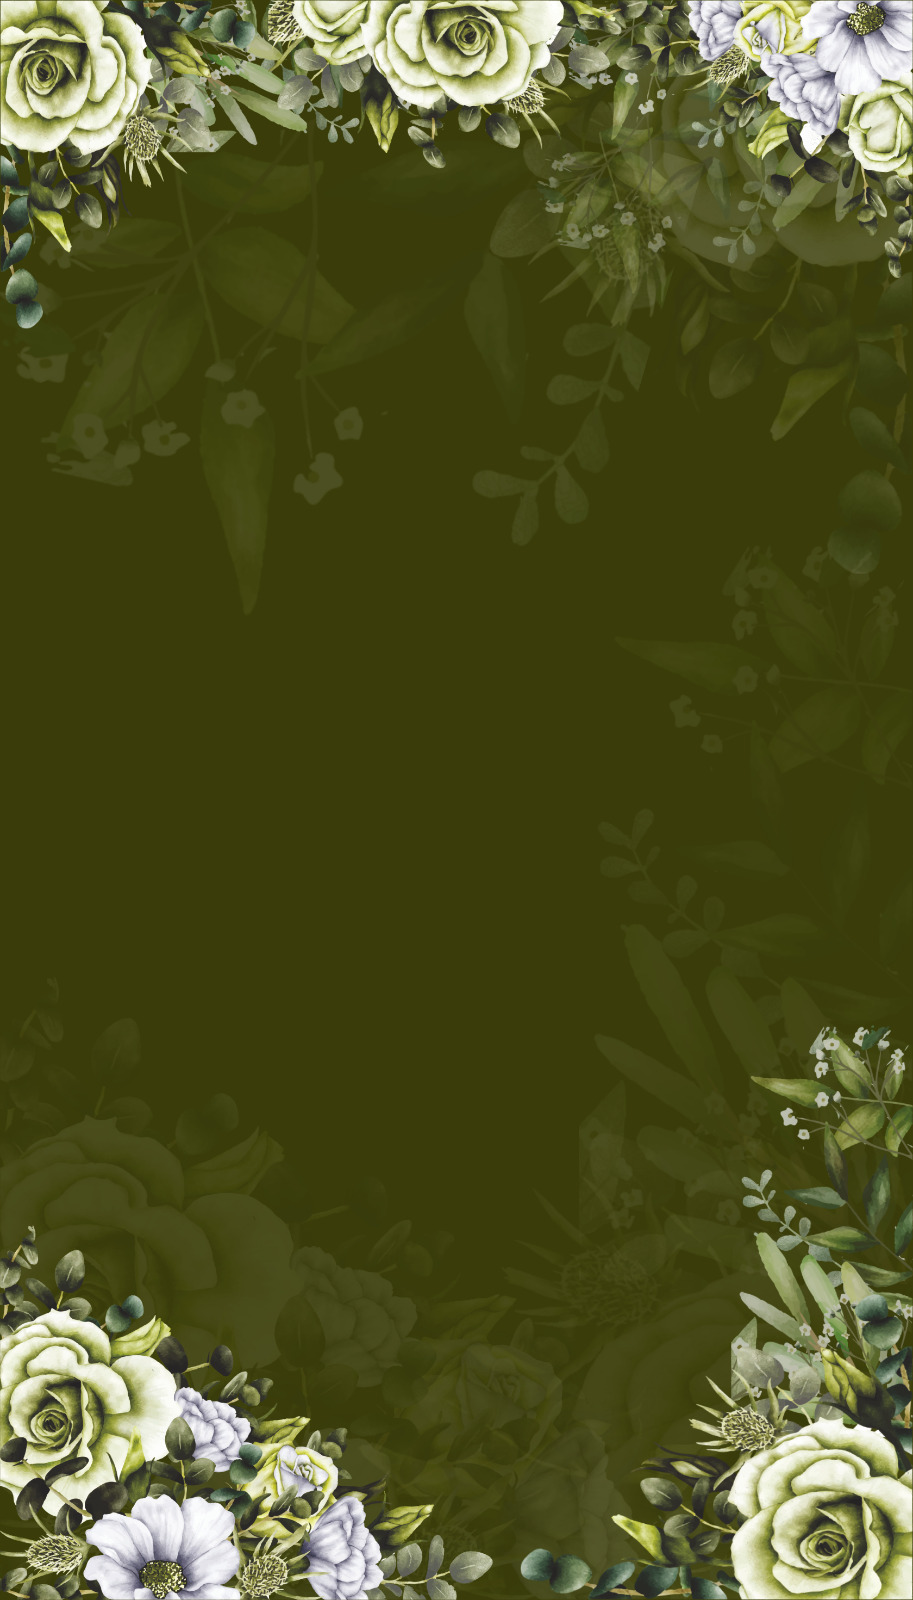
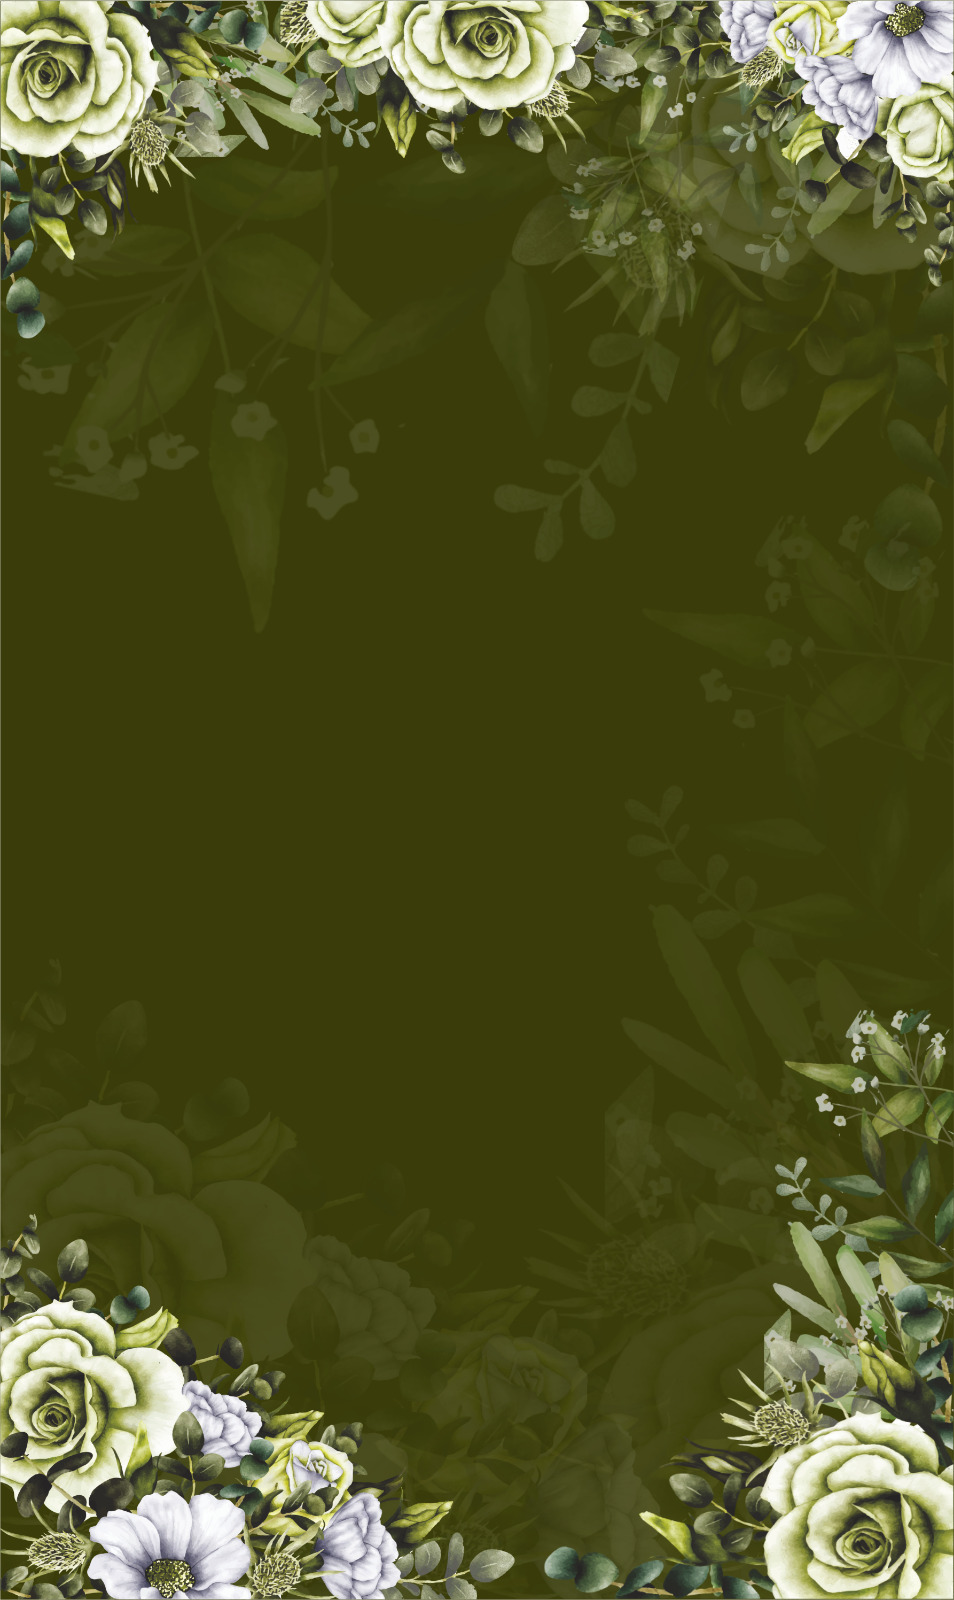
p

diff --git a/index.html b/index.html
@@ -53,7 +53,7 @@
       <div class="container">
         <div class="row justify-content-center">
           <div class="col-md-8 text-center">
-            <h2>Acara pernikahan</h2>
+            <h2>Acara Pernikahan</h2>
             <h3>Diselenggarakan pada 23 Juni 2024</h3>
             <p>Oleh karena itu, dengan segala hormat, kami bermaksud untuk mengundang Bapak/Ibu/Saudara/i untuk hadir pada acara pernikahan kami</p>
           </div>
@@ -62,8 +62,8 @@
               <div class="row">
                 <div class="col-8 text-end">
                   <h3>Rizqi Yohana Putra</h3>
-                  <p>Lorem ipsum dolor sit amet consectetur, adipisicing elit. Pariatur, fugiat earum repellat praesentium molestias architecto.</p>
-                  <p>Putra Bapak Ngadiman <br> dan <br> Ibu Muji Lestari</p>
+                  <p>Putra Bapak Ngadiman dan Ibu Muji Lestari</p>
+                  <p>Waras RT 03 RW 32 Sariharjo Ngaglik Sleman Yogyakarta</p>
                 </div>
                 <div class="col-4">
                   <img src="img/rizqi.jpeg" alt="Rizki" class="img-responsive rounded-circle">
@@ -80,8 +80,8 @@
                 </div>
                 <div class="col-8">
                   <h3>Rr Prabandari Sekar Srikaton</h3>
-                  <p>Lorem ipsum dolor sit amet consectetur, adipisicing elit. Pariatur, fugiat earum repellat praesentium molestias architecto.</p>
-                  <p>Putra Bapak Praptono <br> dan <br> Ibu Rr. Sri Mulati</p>
+                  <p>Putra Bapak Praptono dan Ibu Rr. Sri Mulati</p>
+                  <p>Kasihan, RT 05, Tamantirto, Kasihan Bantul</p>
                 </div>
               </div>
             </div>
@@ -98,7 +98,7 @@
             <p class="alamat">Gedung Sidomukti, Jl. Nogosari Kidul No. 9 Kelurahan Kadipaten Kecamatan Kraton Yogyakarta</p>
             <iframe src="https://www.google.com/maps/embed?pb=!1m18!1m12!1m3!1d3952.805693143318!2d110.3570209!3d-7.810383099999999!2m3!1f0!2f0!3f0!3m2!1i1024!2i768!4f13.1!3m3!1m2!1s0x2e7a57930d7ec3c1%3A0x4ddb8d63788c8133!2sGEDUNG%20SIDO%20MUKTI!5e0!3m2!1sen!2sid!4v1718024194654!5m2!1sen!2sid" width="100%" height="450" style="border:0;" allowfullscreen="" loading="lazy" referrerpolicy="no-referrer-when-downgrade"></iframe>
             <a href="https://maps.app.goo.gl/Nvc3T1QG9PNCDYQ47" target="_blank" class="btn btn-light btn-sm my-3">Klik untuk membuka peta</a>
-            <p class="description">Dengan Tidak Mengurangi Rasa Hormat, Kami Mohon Agar Doa Restu Bapak/ Ibu/ Saudara Disampaikan di Gedung Sidomukti</p>
+            <!-- <p class="description">Dengan Tidak Mengurangi Rasa Hormat, Kami Mohon Agar Doa Restu Bapak/ Ibu/ Saudara Disampaikan di Gedung Sidomukti</p> -->
           </div>
 
           <div class="row justify-content-center mt-4">
@@ -120,7 +120,7 @@
                   </div>
                 </div>
                 <div class="card-footer">
-                  Lorem ipsum dolor sit amet consectetur adipisicing elit. Fugit, quia dolorem velit illo laborum quis!
+                  Dengan Tidak Mengurangi Rasa Hormat, Kami Mohon Agar Doa Restu Bapak/ Ibu/ Saudara Disampaikan di Gedung Sidomukti
                 </div>
               </div>
             </div>
@@ -143,7 +143,7 @@
                   </div>
                 </div>
                 <div class="card-footer">
-                  Lorem ipsum dolor sit amet consectetur adipisicing elit. Fugit, quia dolorem velit illo laborum quis!
+                  Dengan Tidak Mengurangi Rasa Hormat, Kami Mohon Agar Doa Restu Bapak/ Ibu/ Saudara Disampaikan di Gedung Sidomukti
                 </div>
               </div>
             </div>

diff --git a/style.css b/style.css
@@ -14,8 +14,8 @@ body {
     background-image: url(img/bg-home.png);
     background-size: cover;
     min-height: 100vh;
-    margin-top: -6.3rem;
-    padding-top: 10rem;
+    margin-top: -6.45rem;
+    padding-top: 18rem;
     padding-bottom: 5rem;
     background-size: cover;
     background-position: center;
